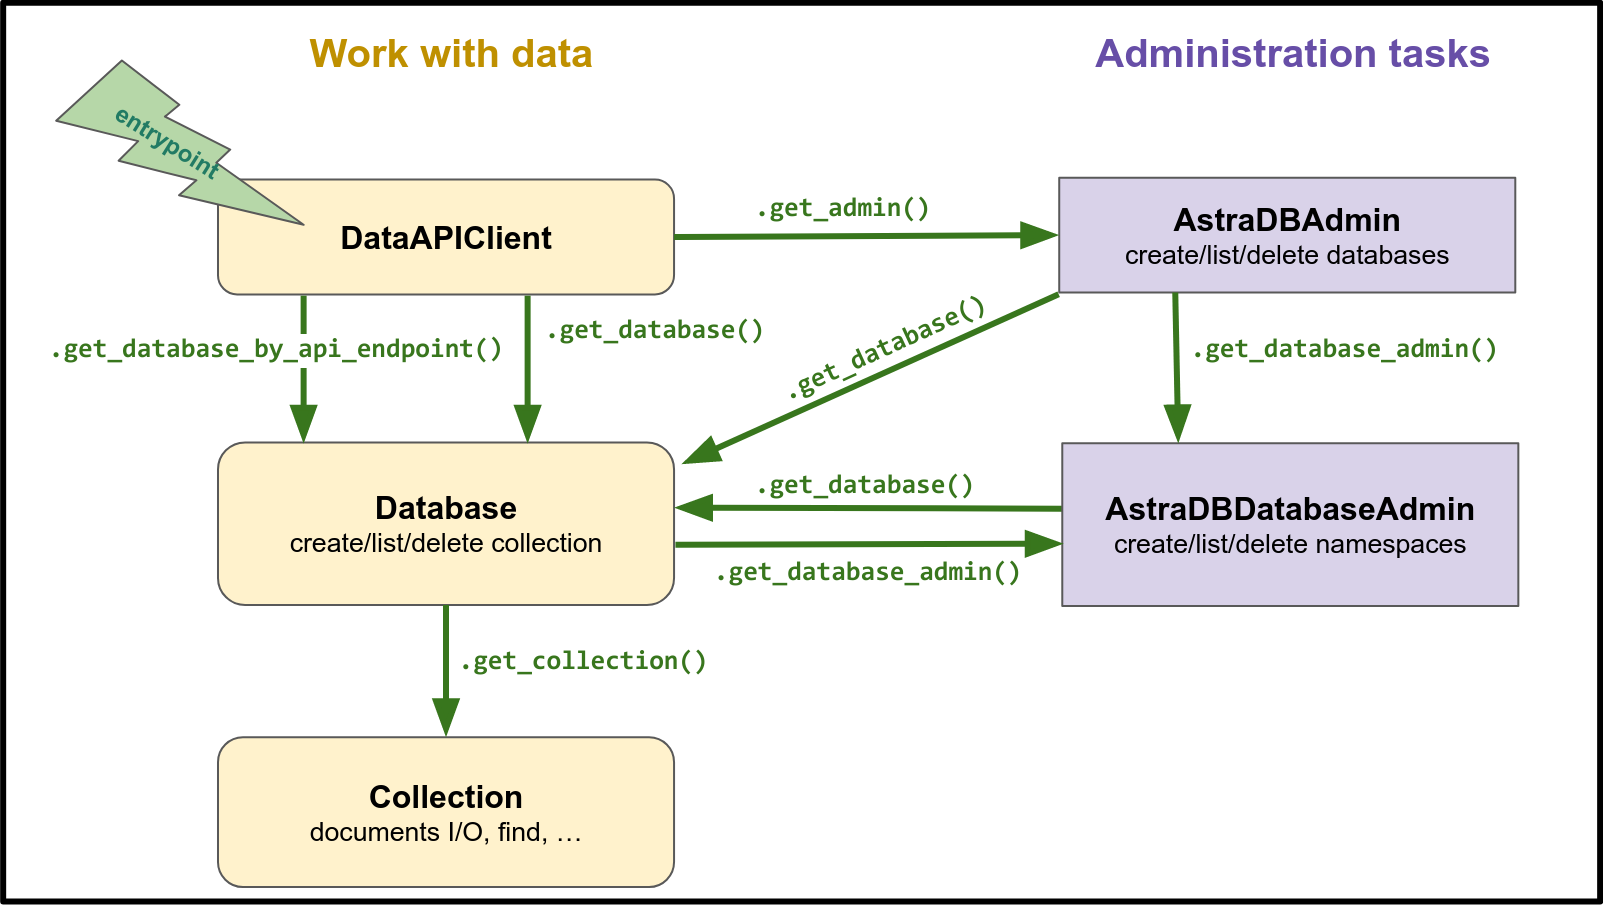
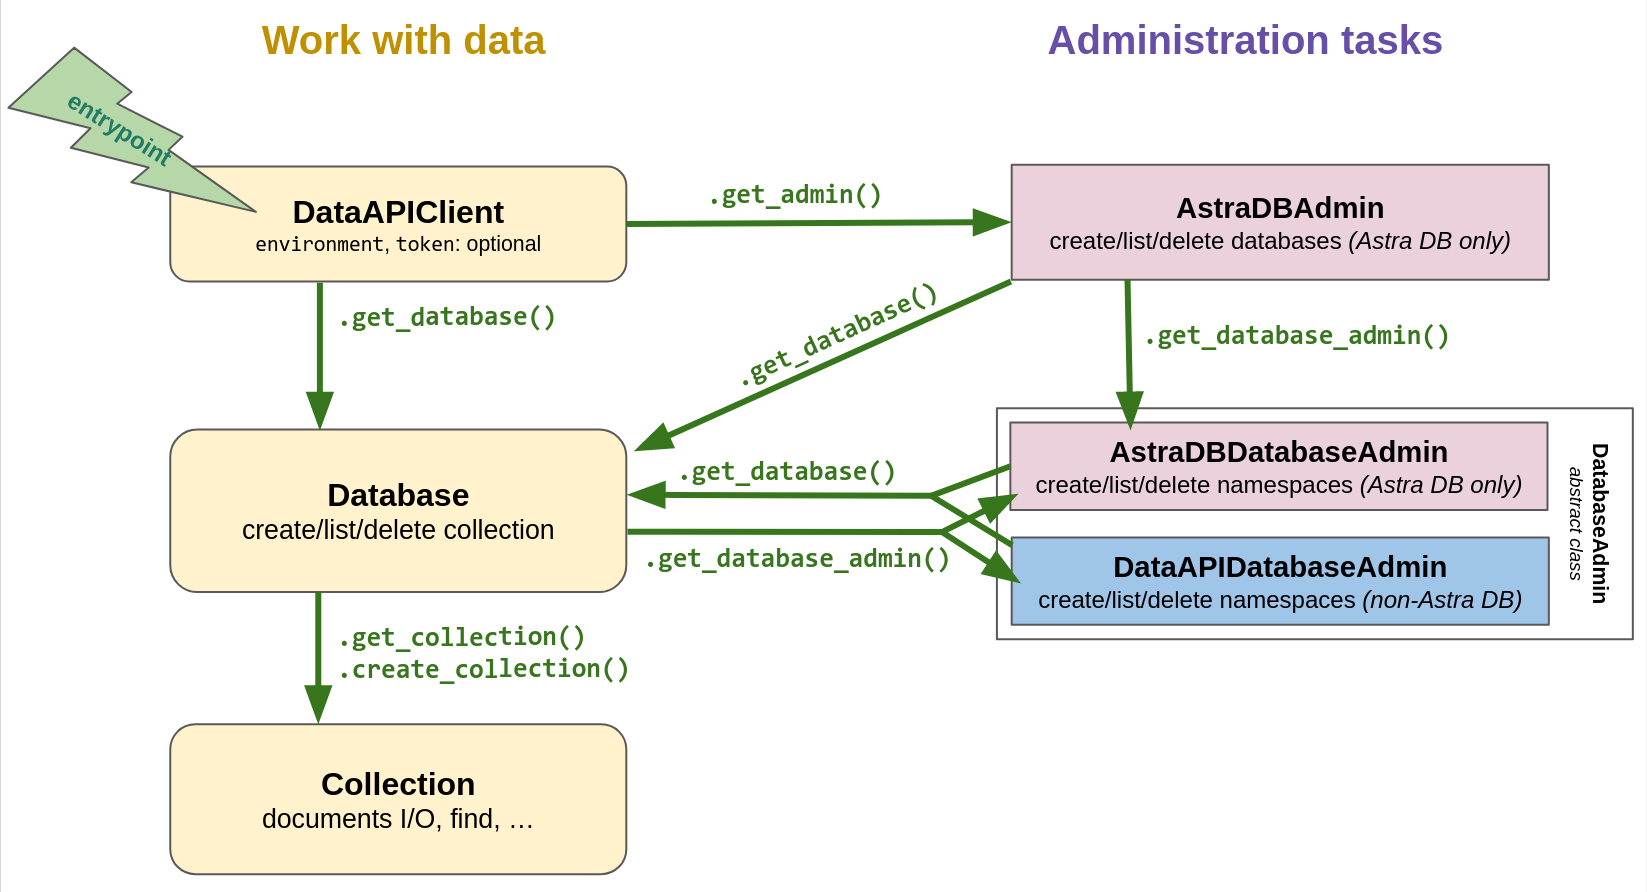
SL ready for 1.3.1 (#288)
* bump to 1.3.1
* new abstractions diagram; ready for 1.3.1
* fight flaky count docs test

Changed region(s): [[0.0, 0.0, 1.0, 1.0]]

diff --git a/tests/idiomatic/integration/test_timeout_sync.py b/tests/idiomatic/integration/test_timeout_sync.py
@@ -32,7 +32,7 @@ class TestTimeoutSync:
     ) -> None:
         sync_empty_collection.insert_many([{"a": 1}] * 100)
         time.sleep(10)
-        assert sync_empty_collection.count_documents({}, upper_bound=150) >= 100
+        assert sync_empty_collection.count_documents({}, upper_bound=500) >= 100
 
         with pytest.raises(DataAPITimeoutException) as exc:
             sync_empty_collection.count_documents({}, upper_bound=150, max_time_ms=1)

diff --git a/README.md b/README.md
@@ -20,8 +20,11 @@ import astrapy
 ASTRA_DB_APPLICATION_TOKEN = "AstraCS:..."
 ASTRA_DB_API_ENDPOINT = "https://01234567-....apps.astra.datastax.com"
 
-my_client = astrapy.DataAPIClient(ASTRA_DB_APPLICATION_TOKEN)
-my_database = my_client.get_database(ASTRA_DB_API_ENDPOINT)
+my_client = astrapy.DataAPIClient()
+my_database = my_client.get_database(
+    ASTRA_DB_API_ENDPOINT,
+    token=ASTRA_DB_APPLICATION_TOKEN,
+)
 
 my_collection = my_database.create_collection(
     "dreams",
@@ -97,6 +100,7 @@ Here's a small admin-oriented example:
 import astrapy
 
 
+# this must have "Database Administrator" permissions:
 ASTRA_DB_APPLICATION_TOKEN = "AstraCS:..."
 
 my_client = astrapy.DataAPIClient(ASTRA_DB_APPLICATION_TOKEN)
@@ -136,8 +140,11 @@ import astrapy
 ASTRA_DB_APPLICATION_TOKEN = "AstraCS:..."
 ASTRA_DB_API_ENDPOINT = "https://01234567-....apps.astra.datastax.com"
 
-my_client = astrapy.DataAPIClient(ASTRA_DB_APPLICATION_TOKEN)
-my_database = my_client.get_database(ASTRA_DB_API_ENDPOINT)
+my_client = astrapy.DataAPIClient()
+my_database = my_client.get_database(
+    ASTRA_DB_API_ENDPOINT,
+    token=ASTRA_DB_APPLICATION_TOKEN,
+)
 my_collection = my_database.dreams
 
 my_collection.insert_one({"when": datetime.datetime.now()})
@@ -177,8 +184,11 @@ import bson
 ASTRA_DB_APPLICATION_TOKEN = "AstraCS:..."
 ASTRA_DB_API_ENDPOINT = "https://01234567-....apps.astra.datastax.com"
 
-my_client = astrapy.DataAPIClient(ASTRA_DB_APPLICATION_TOKEN)
-my_database = my_client.get_database(ASTRA_DB_API_ENDPOINT)
+my_client = astrapy.DataAPIClient()
+my_database = my_client.get_database(
+    ASTRA_DB_API_ENDPOINT,
+    token=ASTRA_DB_APPLICATION_TOKEN,
+)
 
 my_collection = my_database.create_collection(
     "ecommerce",
